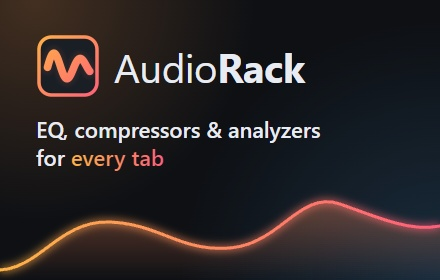
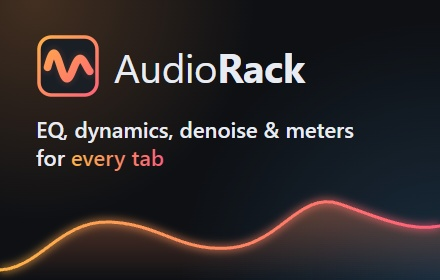
Refresh store texts and promo tiles for 0.6.1
New manifest summary and store description covering the gate, the
denoiser with learned noise profiles and the loudness meter. The
single purpose text names the loudness meter, the marquee chips list
the new modules and the small tile has a new tagline. The store:assets
script takes --tiles to render only the promo tiles.

Adds the Google Search Console verification file to the site, so
https://baalintnagy.github.io/audiorack/ can be the Official URL of
the listing.

Changed region(s): [[0.1773, 0.4286, 0.8273, 0.5143]]

diff --git a/store/promo/marquee.html b/store/promo/marquee.html
@@ -93,10 +93,13 @@
                 <span class="chip" style="--tint: #ffb347">Compressor</span>
                 <span class="chip" style="--tint: #ff5e7a">Limiter</span>
                 <span class="chip" style="--tint: #b78bff">Multiband</span>
+                <span class="chip" style="--tint: #62f08a">Gate</span>
                 <span class="chip" style="--tint: #3fe0c5">Filter</span>
                 <span class="chip" style="--tint: #ffd84f">De-esser</span>
+                <span class="chip" style="--tint: #7fd1b9">Denoiser</span>
                 <span class="chip" style="--tint: #ff8a3d">Bass Booster</span>
-                <span class="chip" style="--tint: #9fe870">Analyzers</span>
+                <span class="chip" style="--tint: #ffcf6f">Loudness</span>
+                <span class="chip" style="--tint: #8fe3ff">Analyzers</span>
             </div>
         </div>
         <img class="shot" src="../screenshots/1-equalizer.jpg" alt="" />

diff --git a/vite.config.ts b/vite.config.ts
@@ -8,8 +8,8 @@ const pkg = JSON.parse(readFileSync(new URL('./package.json', import.meta.url), 
 
 // The Chrome Web Store shows this as the listing summary; it must stay within 132 characters.
 const DESCRIPTION =
-    'An effect rack for your browser tabs: EQ, compressors, gate, denoiser, de-esser, ' +
-    'bass booster, a loudness meter and audio analyzers.';
+    'Studio effects for any browser tab: EQ, compressors, limiter, gate, denoiser, de-esser, ' +
+    'bass boost, a loudness meter and analyzers.';
 
 const ICON_SIZES = [16, 32, 48, 128];
 

diff --git a/store/promo/small-tile.html b/store/promo/small-tile.html
@@ -41,7 +41,7 @@
                 <span>Audio<strong>Rack</strong></span>
             </div>
             <p class="tagline">
-                EQ, compressors &amp; analyzers<br />for <span class="gradient">every tab</span>
+                EQ, dynamics, denoise &amp; meters<br />for <span class="gradient">every tab</span>
             </p>
         </div>
         <svg class="curve" viewBox="0 0 440 120" height="120" aria-hidden="true">

diff --git a/site/google272d4ab540103732.html b/site/google272d4ab540103732.html
@@ -1,0 +1,1 @@
+google-site-verification: google272d4ab540103732.html

diff --git a/store/README.md b/store/README.md
@@ -55,7 +55,7 @@ change.
 
 > AudioRack processes the audio of a browser tab that the user chooses through a configurable
 > chain of audio effects (equalizer, compressors, limiter, gate, filter, de-esser, denoiser,
-> volume and bass booster) and shows audio analyzers for that sound.
+> volume and bass booster) and shows audio analyzers and a loudness meter for that sound.
 
 **Permission justifications**
 
